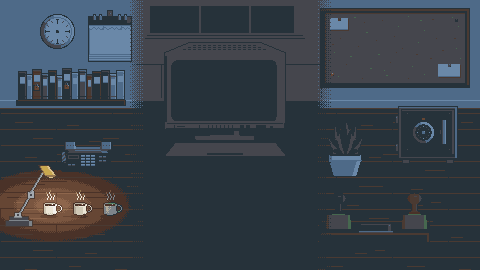
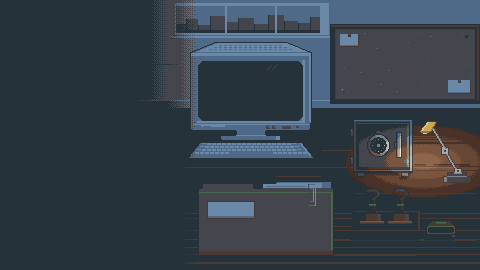
Redraw desk and verdict stamps in bureau style; menu background for left-column layout

diff --git a/ASSETS.md b/ASSETS.md
@@ -40,7 +40,7 @@
 
 | Файл | Размер (px) | Что | Состояния |
 |---|---|---|---|
-| `scene/bg.png` | 480×270 | Стена (до y=107) + ореховый стол (с y=108), без интерактивных предметов; окно и растение — часть фона | — |
+| `scene/bg.png` | 480×270 | Стена (до y=107) с окном и плинтусом; стык стены и стола на y=108. Ниже один цельный ореховый стол из трёх широких досок вдоль (стыки на y=166 и 212, без смещений), мягкие длинные прожилки, дальний край темнее, ближний светлее; лицевая кромка толщиной 6 px (y=262..267, блик сверху, тень снизу) и тёмная зона под столом (y=268..269). Под монитором, сейфом, папкой и лотком запечены контактные тени (смещены влево на 2 px); кружки и телефон несут свою тень в спрайте. Растение — часть фона | — |
 | `scene/safe.png` | ~70×60 | Сейф с деньгами игрока (клик → кошелёк); код рисует сумму, цифр в спрайте нет | closed / open (`safe_open.png`: внутри пачки зелёных купюр) |
 | `scene/phone.png` | 56×40 | Классический офисный кнопочный телефон: тёмный клиновидный корпус, трубка-«косточка» лежит на вилке, спиральный шнур сбоку, клавиатура 3×4, пустой дисплей и зелёный светодиод; под ним мягкая тень на столе — «позвонить информатору» (платная подсказка) | idle / ring (`phone_ring.png`: трубка приподнята над вилкой, светодиод горит ярко, штрихи звонка по бокам) |
 | `scene/board.png` | 150×80 | Пробковая доска: рама-орех, крупная спокойная пробка, пара пустых бумажек и кнопок; карточки улик рисует код (рабочая область в `sprite-meta.json`) | — |
@@ -50,9 +50,9 @@
 | `scene/clock.png` | ~36×36 | Настенные часы (стрелки — код или 4 кадра) | — |
 | `scene/calendar.png` | ~44×52 | Отрывной календарь (дату рисует код) | — |
 | `scene/coffee.png` | ~24×28 | Кружка кофе = жизнь | full / empty |
-| `scene/stamps.png` | 110×55 | Лоток с двумя штампами и штемпельной подушкой: зелёная ручка (слева) = NOT GUILTY, красная (справа) = GUILTY | — |
-| `ui/stamp_guilty.png` | 120×40 | Оттиск GUILTY (приглушённый красный, двойная рамка, потёртость в основном у краёв рамки, буквы читаются) | — |
-| `ui/stamp_not_guilty.png` | 120×40 | Оттиск NOT GUILTY (приглушённый зелёный, тот же размер) | — |
+| `scene/stamps.png` | 110×55 | Деревянная стойка со штампами в 3/4 сверху: две точёные деревянные ручки-«грибки» (красная метка = GUILTY слева, зелёная = NOT GUILTY справа), латунные плиты с тонкой резиной; рядом низкая жестянка-подушка (синяя эмаль, латунный кант) с тёмным пропитанным войлоком сверху и откинутой назад латунной крышкой. Тень — запечена в `bg.png` | — |
+| `ui/stamp_guilty.png` | 120×40 | Оттиск резинового штампа: двойная рамка, строка «COMPLAINTS BUREAU», крупное слово GUILTY приглушённым красным, наклон 2°, неравномерная краска и «лысины» | — |
+| `ui/stamp_not_guilty.png` | 120×40 | Тот же оттиск, слово NOT GUILTY приглушённым зелёным (цвет метки на ручке штампа) | — |
 | `ui/claim_form.png` | 200×120 | Бланк жалобы: шапка бюро с эмблемой и три пустые строки (Claimant / Respondent / Request); подписи и значения рисует код, позиции строк в `sprite-meta.json` | — |
 | `ui/paper.png` | 64×64 тайл | Текстура бумаги для документов | — |
 | `portraits/<id>.png` | 48×48 | **Нарисовано** (`tools/draw-portraits.mjs`, 8 шт.: linda_park, dale_hughes, tina_ruiz, marcus_bell, priya_shah, gloria_mendez, kyle_denton, ray_ortiz). Одна серия: плашка `#7d848a` на весь кадр, голова/плечи/линия глаз общие, различаются тон кожи, причёска, одежда, аксессуар. Нейтральные выражения, виновные не выглядят злодеями. Кожа берётся из отдельной палитры `PP` (4 новых цвета; итого 32 + 4 = 36) | — |
@@ -63,7 +63,7 @@
 |---|---|---|
 | `ui/sticker_new.png` | 16×16 | Жёлтый стикер «новое» |
 | `ui/logo.png` | 200×60 | **Нарисовано** (`tools/draw-menu.mjs`): латунная табличка с гравировкой «CASE DESK» (рабочее название), 4 винта, фаска, прозрачно вокруг. Название меняется константой `LOGO_TEXT` в начале `tools/draw-menu.mjs` (шрифт A–Z, 0–9, пробел и `. , - ! ? : ' & + /`, масштаб и зазор подбираются автоматически), затем `npm run menu` |
-| `ui/menu_bg.png` | 480×270 | **Нарисовано** (`tools/draw-menu.mjs`): тот же стол, собранный из `scene/bg.png` и спрайтов по `src/scene/layout.json` (без папки дела), с вечерней цветокоррекцией (холодный сумрак, тёплый круг света слева, цвета только из палитры `P`). Вертикальная полоса x 144..316 (границы по пустой стене/столу) затемнена и спокойная под три кнопки; логотип кладётся сверху по центру (окно сумеречного неба за ним почти полностью закрыто логотипом). Слева тёплый круг света от нарисованной настольной лампы. Запуск после `npm run sprites` |
+| `ui/menu_bg.png` | 480×270 | **Нарисовано** (`tools/draw-menu.mjs`, `npm run menu` после `npm run sprites`): фон главного меню под раскладку «текст слева, стол справа». Левая треть (x < ~170) — гладкий тёмный градиент под текст меню, который рисует код (без предметов и мелких деталей; широкий плавный переход к сцене до x≈196 дизерингом двух соседних цветов палитры). Справа вечерний стол (сумрак + тёплый свет лампы, цвета только из `P`): монитор (176,40), доска (330,24; под кнопкой звука остаётся пустая стена), сейф (345,118), папка (196,178), штампы (352,186), настольная лампа на шарнирах у правого края (зеркальная, свет падает на сейф и стол). Отдельная композиция, `layout.json` не меняется; растение из фона убрано, внизу справа и сверху справа под подписями и кнопкой звука нет мелких деталей |
 
 ### Если останется время (P2)
 

diff --git a/ASSET_PROMPTS.md b/ASSET_PROMPTS.md
@@ -19,8 +19,8 @@ no text, no letters, no logos, no watermark
 
 | Файл | Промпт (после STYLE) | Итоговый размер |
 |---|---|---|
-| `scene/bg.png` | `front view of an empty walnut wood office desk against a light warm grey wall, subtle wall panelling and skirting board, a wide window with soft daylight and a city skyline, desk top occupies the bottom 60% of the image, empty spaces for objects, wide 16:9 composition` | 480×270 |
-| `ui/menu_bg.png` | тот же промпт, + `evening dusk, cool blue shadows, warm desk lamp light pool on the left, calm dark empty center for menu buttons` (сейчас рисуется скриптом `tools/draw-menu.mjs` из спрайтов сцены) | 480×270 |
+| `scene/bg.png` | `front view of an empty solid walnut wood office desk with long horizontal grain and a visible front edge, soft contact shadows, against a light warm grey wall with subtle panelling and skirting board, a wide window with soft daylight and a city skyline, desk top occupies the bottom 60% of the image, empty spaces for objects, wide 16:9 composition` | 480×270 |
+| `ui/menu_bg.png` | тот же промпт, + `evening dusk, cool blue shadows, warm desk lamp light pool on the right; left third a smooth dark empty gradient for menu text, desk scene (monitor, board, safe, folder, stamps, lamp) on the right 65%, no busy detail in top-right and bottom-right corners` (сейчас рисуется скриптом `tools/draw-menu.mjs` из спрайтов сцены) | 480×270 |
 
 ## Предметы стола
 
@@ -31,7 +31,7 @@ no text, no letters, no logos, no watermark
 | `scene/clock.png` | `round wall clock with simple face, dark wooden rim, no hands` | ~36×36 | стрелки рисует код |
 | `scene/calendar.png` | `tear-off wall calendar, muted green header strip with metal rings, torn paper remnants, blank off-white page` | ~44×52 | число рисует код |
 | `scene/coffee.png` | `white ceramic coffee mug full of black coffee, small steam` | ~24×28 | `coffee_empty.png`: та же кружка пустая, без пара |
-| `scene/stamps.png` | `small walnut wood tray with two rubber stamps, one with muted green handle (NOT GUILTY), one with muted red handle (GUILTY), blue ink pad` | ~110×55 | — |
+| `scene/stamps.png` | `small wooden stand holding two real rubber stamps with turned wooden mushroom handles, one with a red mark, one with a green mark, brass base plates with thin black rubber, next to a tin ink pad with its lid flipped open and dark inked felt, 3/4 top-down view, cozy 1990s complaints bureau` | ~110×55 | — |
 | `scene/safe.png` | `small steel office safe with muted green painted door, round combination dial, side handle, hinges and small feet, closed, front view` | ~70×60 | `safe_open.png`: дверца распахнута, внутри стопки зелёных банкнот с бумажными лентами (без цифр) |
 | `scene/phone.png` | `classic office push-button desk telephone, dark charcoal wedge-shaped body, sloped front keypad panel with 12 light buttons and a few function keys, small green indicator light, light grey dog-bone handset resting in the cradle, coiled cord, soft shadow on the desk, front view slightly from above` | 56×40 | `phone_ring.png`: трубка приподнята над вилкой, светодиод горит ярко, короткие штрихи звонка по бокам |
 | `scene/cabinet.png` | `wall-mounted wooden shelf with a row of archive binders, spines in muted green, beige, steel blue, muted red and walnut, blank label patches, two binders with small brass padlocks, front view` | 110×40 | — |
@@ -41,7 +41,7 @@ no text, no letters, no logos, no watermark
 
 | Файл | Промпт | Размер |
 |---|---|---|
-| `ui/stamp_guilty.png` | `rubber stamp ink impression, double rectangular border, muted red ink, slightly worn edges, blocky pixel letters spelling GUILTY` | 120×40 |
+| `ui/stamp_guilty.png` | `rubber stamp ink impression, uneven ink coverage with bald patches, double rectangular border, small line COMPLAINTS BUREAU, big blocky word GUILTY, muted burgundy red ink, slight 2 degree tilt` | 120×40 |
 | `ui/stamp_not_guilty.png` | то же, `muted green ink, NOT GUILTY` | 120×40 |
 | `ui/claim_form.png` | `complaint form on off-white paper, green header strip with a small shield emblem, three empty ruled rows, no text` | ~200×120 |
 | `ui/paper.png` | `seamless tileable texture of slightly yellowed office paper, subtle grain` | 64×64 |

diff --git a/tools/README.md b/tools/README.md
@@ -46,7 +46,7 @@ node tools/draw-sprites.mjs     # или: npm run sprites
 node tools/draw-menu.mjs        # или: npm run menu
 ```
 
-Рисует и **всегда перезаписывает** `ui/logo.png` (200×60, латунная табличка) и `ui/menu_bg.png` (480×270, вечерний стол). Порядок запуска: сначала `npm run sprites`, потом `npm run menu` (фон меню собирается из спрайтов сцены, которые скрипт строит в памяти по `src/scene/layout.json`, поэтому он всегда соответствует актуальному арту; без папки дела, чтобы центр под кнопки был спокойным).
+Рисует и **всегда перезаписывает** `ui/logo.png` (200×60, латунная табличка) и `ui/menu_bg.png` (480×270, вечерний стол). Порядок запуска: сначала `npm run sprites`, потом `npm run menu` (фон меню собирается из спрайтов сцены, которые скрипт строит в памяти, поэтому он всегда соответствует актуальному арту; расположение предметов в меню задано отдельно, в `MENU_OBJECTS` в `tools/draw-menu.mjs`, `layout.json` не используется для позиций: слева тёмная колонка под текст меню, справа стол).
 
 **Название игры:** константа `LOGO_TEXT` в начале `tools/draw-menu.mjs` (сейчас `'CASE DESK'`), затем `npm run menu`. Шрифт общий со штампами, `tools/lib/font.mjs`: A–Z (регистр не важен), 0–9, пробел и `. , - ! ? : ' & + /`; другой символ рисуется как `?`. Текст центрируется; масштаб (5…1) и зазор подбираются так, чтобы он влез в 164 px, при слишком длинном названии скрипт сообщит об ошибке. Файлы защищены в `make-placeholders.mjs` от `--force`.
 
